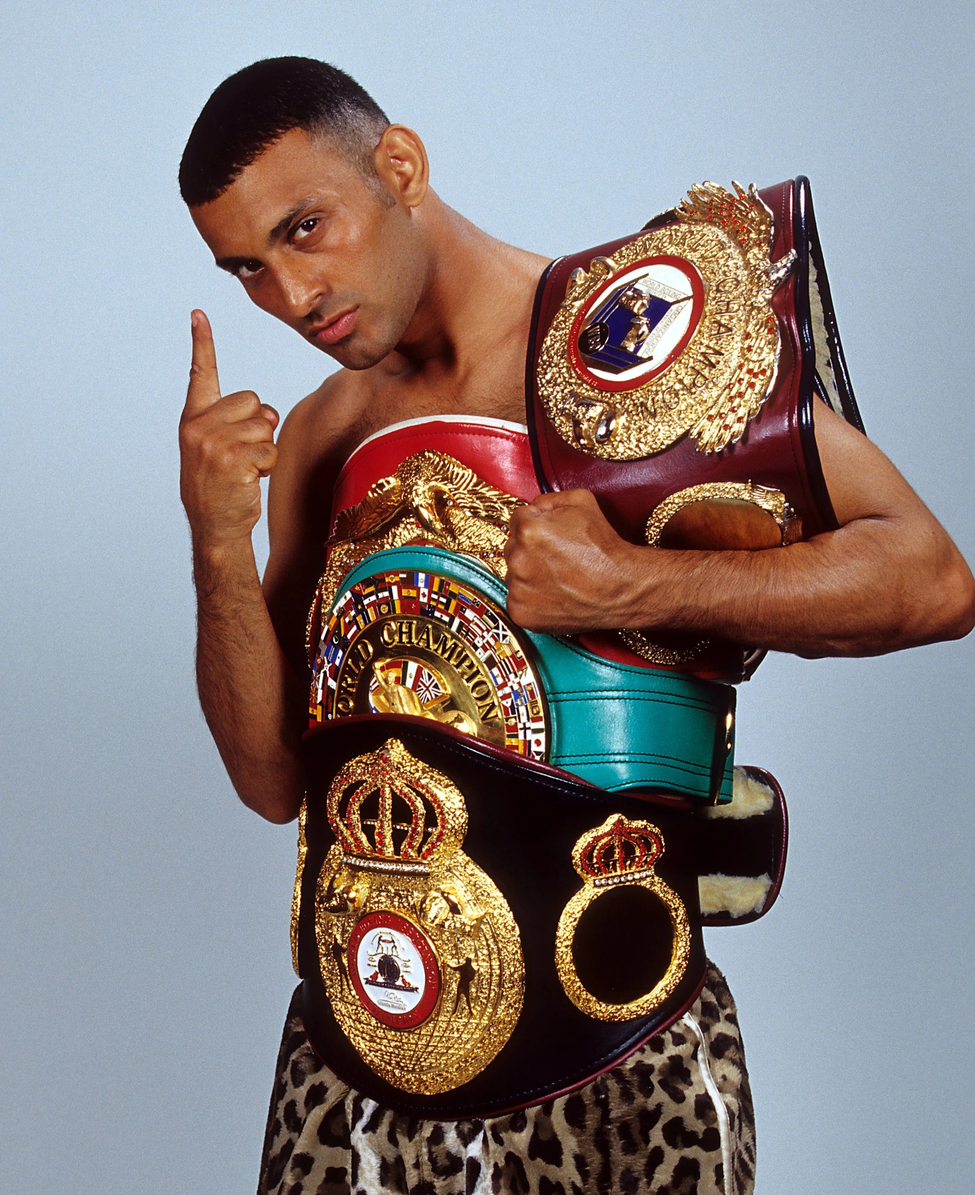
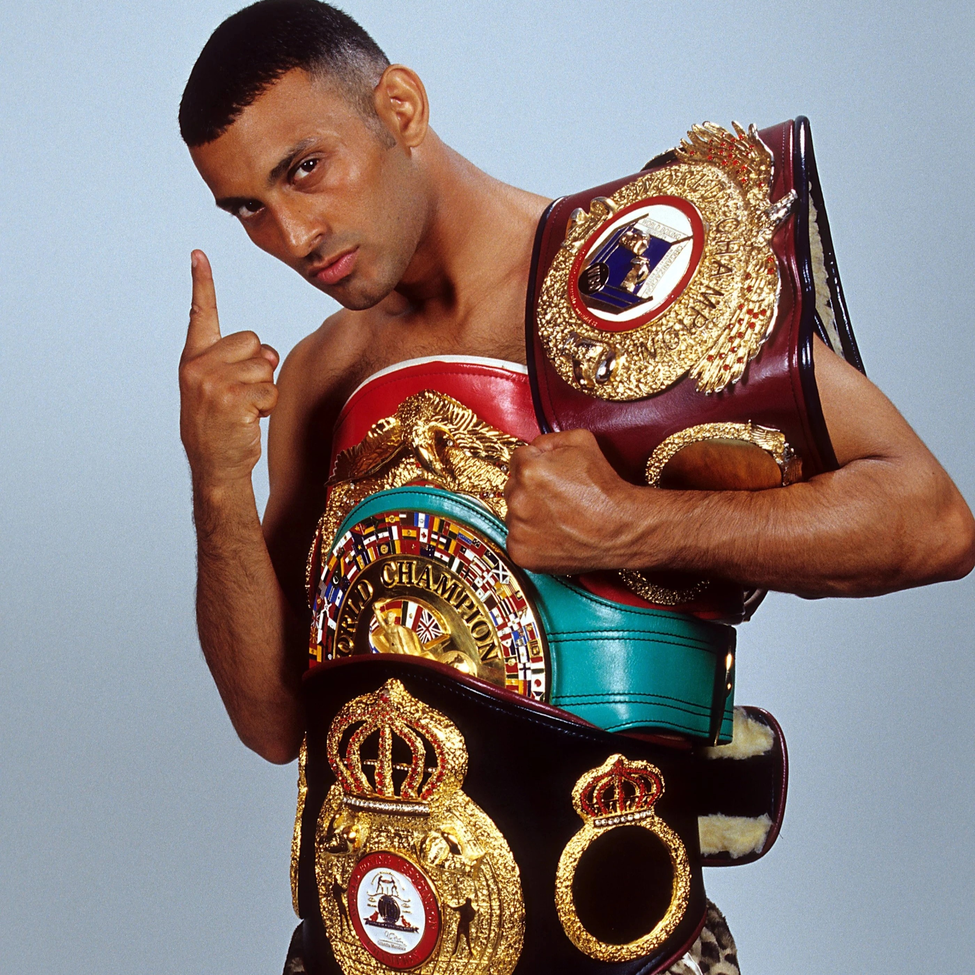
fix image description + ensured images are square

diff --git a/client/lab_3/index.html b/client/lab_3/index.html
@@ -35,14 +35,14 @@
                 <div class="slides">
                    <div class="carousel_item visible"><img id="slide_1" src="images/kitty.png" alt="A cute kitty" /></div>
                    <div class="carousel_item hidden"><img id="slide_2" src="images/harar-ethiopia.jpg" alt="One of the gates in Harar, Ethiopia" /></div>
-                   <div class="carousel_item hidden"><img id="slide_3" src="images/avatar-tla.jpg" alt="Avatar: The Last Airbender" /></div>
+                   <div class="carousel_item hidden"><img id="slide_3" src="images/avatar-aang.jpeg" alt="Avatar: The Last Airbender" /></div>
                    <div class="carousel_item hidden"><img id="slide_4" src="images/prince-naseem-hamed.jpg" alt="Former UK Boxer Prince Naseem Hamed" /></div>
                 </div>
                 <button class="next">Next</button>
             </div>
             <p class="box subtitle">
-               The above images showcase cute mochi balls in different image formats. The dancing mochi is a GIF, 
-               the mochi trapped in a bubble is a JPG, the smiling mochi is a PNG, and the mochi with Bezier handles is a SVG.
+               The above images showcase a cute kitty, one of the gates of Harar (city in Ethiopia), 
+               Aang from the show Avatar: The Last Airbender, and former UK boxer Prince Naseem Hamed.
             </p>
          </div>
       </div>

diff --git a/client/lab_3/script.js b/client/lab_3/script.js
@@ -23,7 +23,7 @@ function updateSlidePosition() {
     slide.classList.remove('visible');
     slide.classList.add('hidden');
   });
-  console.log(slidePosition);
+  // console.log(slidePosition);
   slides[slidePosition].classList.add('visible');
 }
 
@@ -35,6 +35,7 @@ function moveToNextSlide() {
   }
   updateSlidePosition(); // this is how you call a function within a function
 }
+
 function moveToPrevSlide() {
   if (slidePosition === 0) {
     slidePosition = 3;
